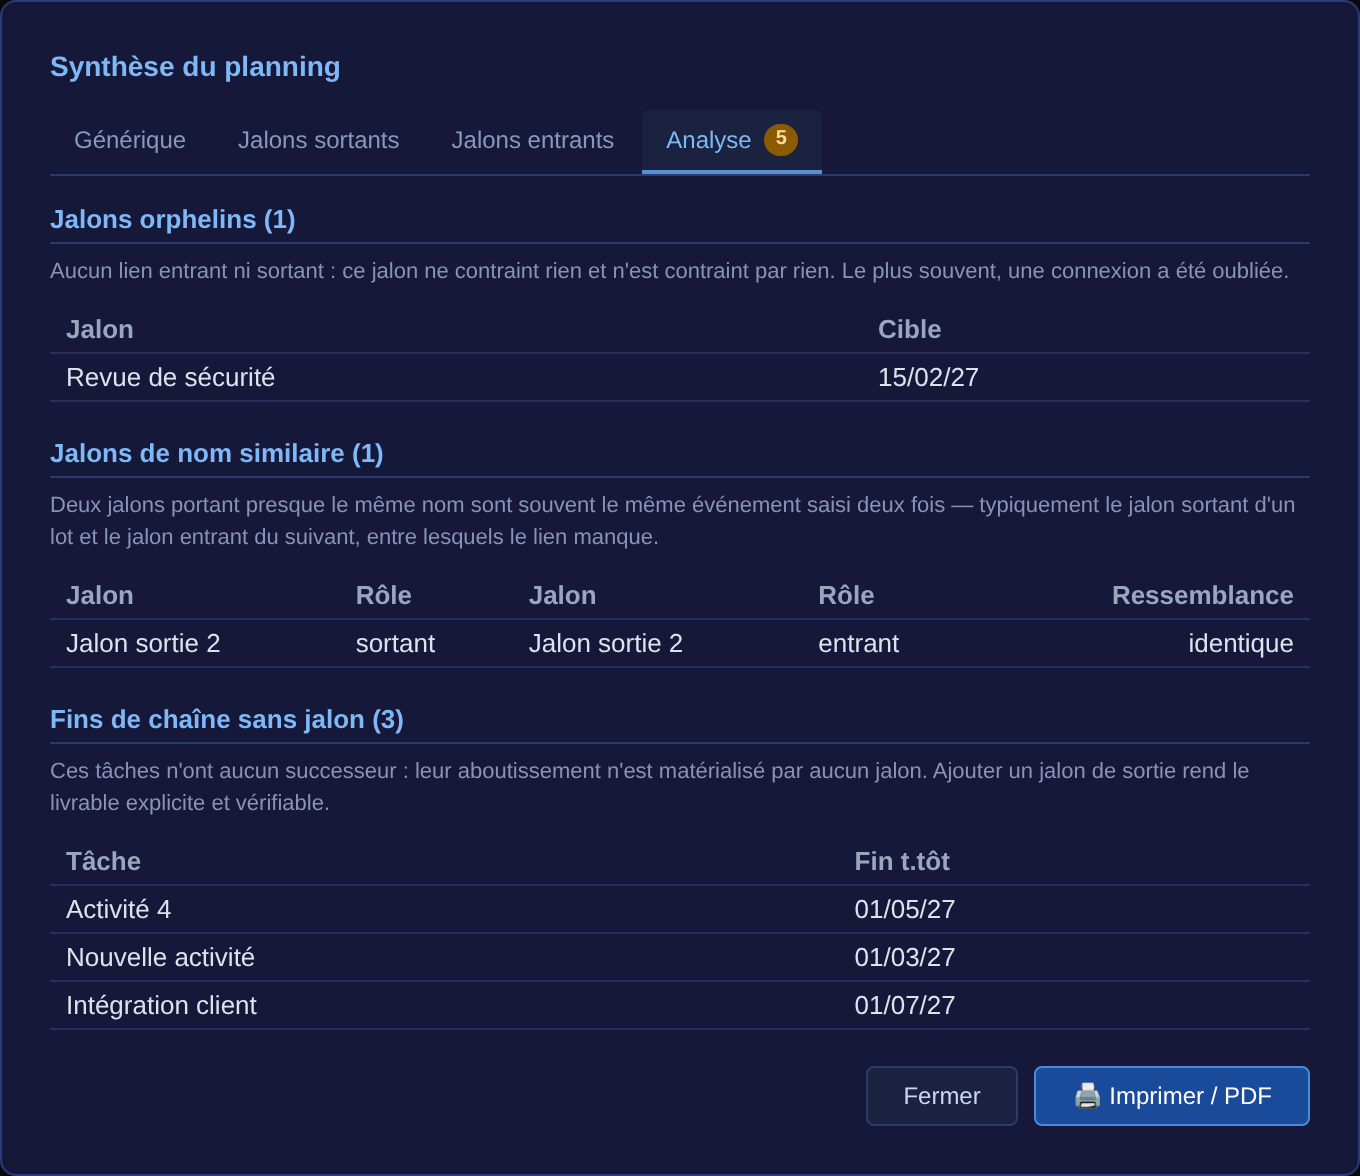
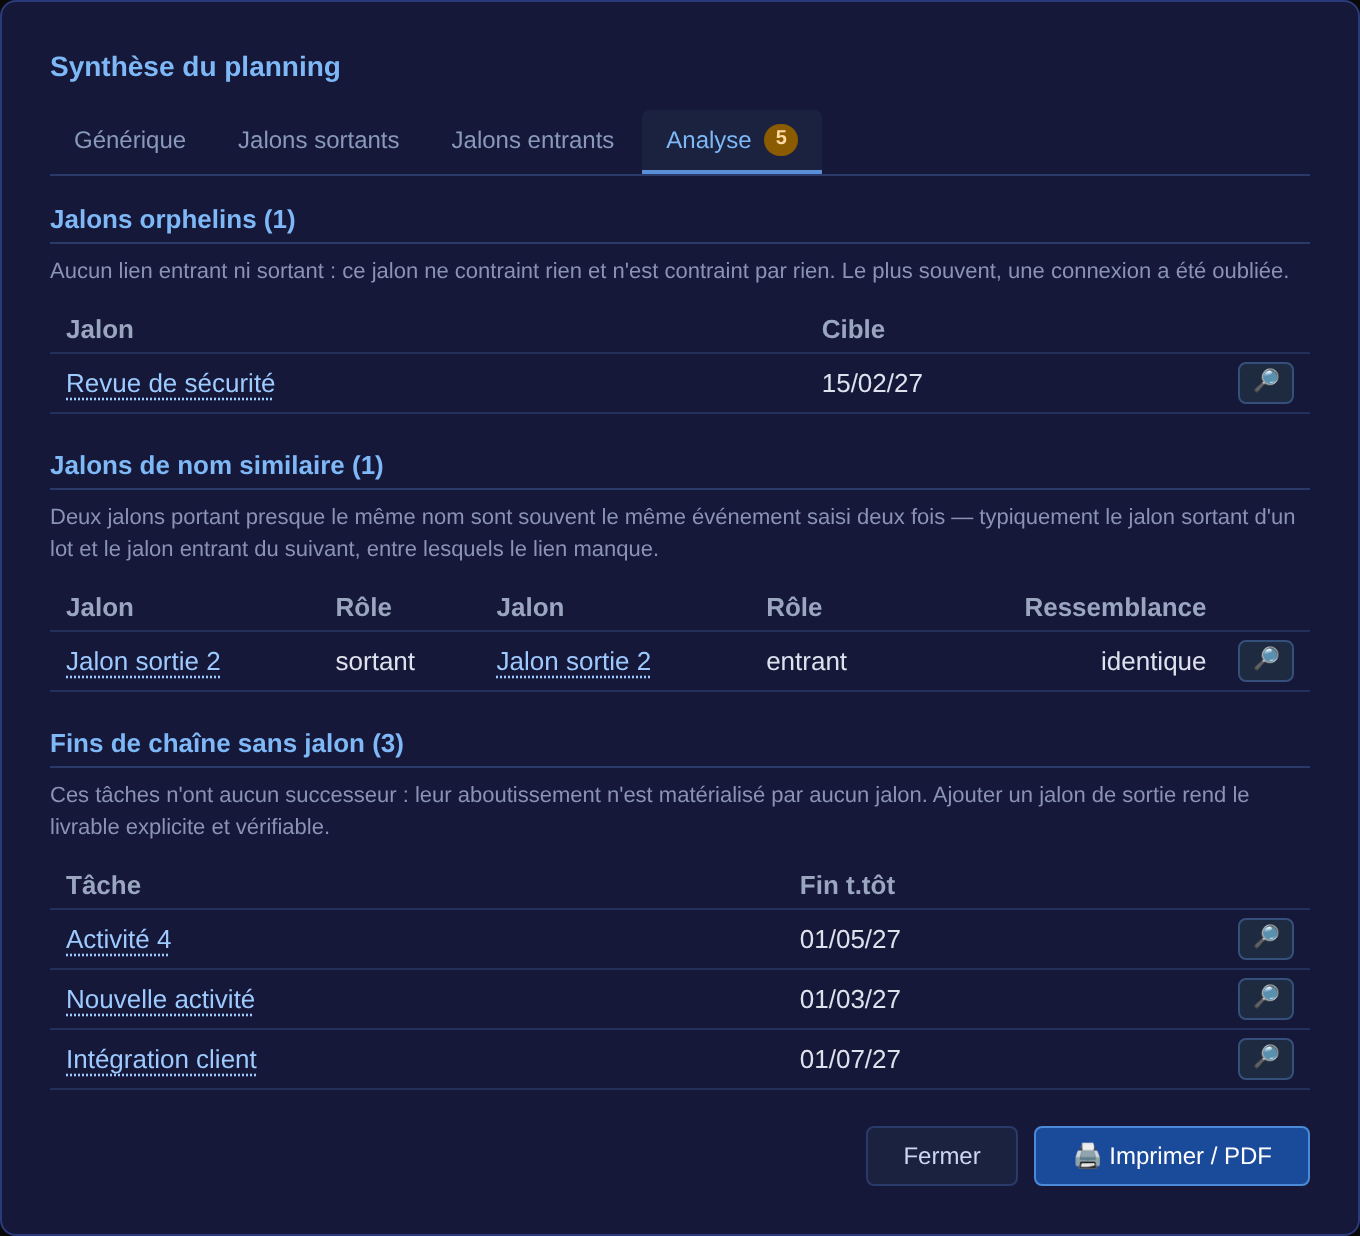
feat: les nœuds signales par l'analyse menent au planning (clic sur le nom, ou mise en evidence)
Une synthese qui signale une anomalie sans permettre d'aller la voir oblige a retrouver le
nœud a l'œil dans le planning — exactement le travail qu'elle est censee epargner. Chaque
ligne de l'onglet Analyse offre donc DEUX gestes, parce que les deux questions ne sont pas
les memes :

- cliquer le NOM (rendu comme un lien) ferme la fenetre, selectionne le nœud et centre la
  vue dessus, sans toucher au zoom — meme comportement que les predecesseurs/successeurs du
  panneau lateral, via le meme pertFocusNode. C'est le geste pour aller voir UN nœud ;
- le bouton 🔎 en bout de ligne ferme la fenetre en posant le FILTRE DE RECHERCHE sur le
  nom commun aux nœuds de la ligne, qui sont alors mis en evidence ENSEMBLE. C'est le geste
  quand l'anomalie en met PLUSIEURS en jeu : pour deux jalons de nom similaire, c'est en les
  voyant cote a cote qu'on tranche entre doublon et homonymie.

Dans les deux cas la fenetre se ferme : modale, elle recouvre le planning, et la laisser
ouverte rendrait le resultat invisible. Le filtre passe par la VRAIE zone de saisie du menu
(evenement `input` sur #filter-search) plutot que par window.pertFilter : tout ce qui en
depend — compteur de resultats, libelle du declencheur, regles de vidage quand on choisit
un autre filtre — reste valable sans dupliquer la moindre logique.

Le terme de filtre d'une ligne a deux nœuds est leur plus longue amorce commune, ramenee a
une limite de MOT : « Livraison protot » filtrerait large et mal. Repli sur le premier
[…]

diff --git a/src/synthesis.js b/src/synthesis.js
@@ -263,11 +263,14 @@ function pertBuildAnalyses(g, adj) {
     hint: "Aucun lien entrant ni sortant : ce jalon ne contraint rien et n'est contraint "
         + "par rien. Le plus souvent, une connexion a été oubliée.",
     columns: [{ text: "Jalon" }, { text: "Cible" }],
-    rows: milestones.filter(n => !nbIn(n) && !nbOut(n)).map(n => [
-      { text: labelOf(n) },
-      { text: (typeof pertMilestoneDueLabel === "function" && pertMilestoneHasDue(n))
-          ? pertMilestoneDueLabel(n) : "—" },
-    ]),
+    rows: milestones.filter(n => !nbIn(n) && !nbOut(n)).map(n => ({
+      filterText: labelOf(n),
+      cells: [
+        { text: labelOf(n), nodeId: n.id },
+        { text: (typeof pertMilestoneDueLabel === "function" && pertMilestoneHasDue(n))
+            ? pertMilestoneDueLabel(n) : "—" },
+      ],
+    })),
   });
 
   // 2) Jalons de nom similaire. Le cas qui INTERESSE vraiment est le couple
@@ -286,13 +289,19 @@ function pertBuildAnalyses(g, adj) {
       // Deja relies l'un a l'autre ? Alors le doublon est deliberement chaine, rien a dire.
       if ((succs[a.id] || []).indexOf(b.id) !== -1 || (succs[b.id] || []).indexOf(a.id) !== -1) continue;
       const role = (x) => (nbIn(x) ? (nbOut(x) ? "intermédiaire" : "sortant") : (nbOut(x) ? "entrant" : "orphelin"));
-      simRows.push([
-        { text: labelOf(a) },
-        { text: role(a) },
-        { text: labelOf(b) },
-        { text: role(b) },
-        { text: s >= 0.999 ? "identique" : Math.round(s * 100) + " %", cls: "num" },
-      ]);
+      simRows.push({
+        // Une ligne, DEUX nœuds : le terme de filtre est ce qu'ils ont en commun, pour
+        // qu'un seul geste les mette tous les deux en evidence — c'est en les voyant
+        // cote a cote qu'on tranche entre doublon et homonymie.
+        filterText: pertSynthCommonTerm(labelOf(a), labelOf(b)),
+        cells: [
+          { text: labelOf(a), nodeId: a.id },
+          { text: role(a) },
+          { text: labelOf(b), nodeId: b.id },
+          { text: role(b) },
+          { text: s >= 0.999 ? "identique" : Math.round(s * 100) + " %", cls: "num" },
+        ],
+      });
     }
   }
   push({
@@ -314,10 +323,13 @@ function pertBuildAnalyses(g, adj) {
     hint: "Aucun lien entrant ni sortant : la tâche est hors du réseau, elle ne participe "
         + "à aucun enchaînement et ne peut pas être sur le chemin critique.",
     columns: [{ text: "Tâche" }, { text: "Durée", cls: "num" }],
-    rows: activities.filter(n => !nbIn(n) && !nbOut(n)).map(n => [
-      { text: labelOf(n) },
-      { text: String(n.properties.duration || 0), cls: "num" },
-    ]),
+    rows: activities.filter(n => !nbIn(n) && !nbOut(n)).map(n => ({
+      filterText: labelOf(n),
+      cells: [
+        { text: labelOf(n), nodeId: n.id },
+        { text: String(n.properties.duration || 0), cls: "num" },
+      ],
+    })),
   });
 
   // 4) Fins de chaine sans jalon — une tache qui ne debouche sur rien produit quelque
@@ -330,11 +342,14 @@ function pertBuildAnalyses(g, adj) {
         + "aucun jalon. Ajouter un jalon de sortie rend le livrable explicite et "
         + "vérifiable.",
     columns: [{ text: "Tâche" }, { text: "Fin t.tôt" }],
-    rows: activities.filter(n => nbIn(n) && !nbOut(n)).map(n => [
-      { text: labelOf(n) },
-      { text: (typeof pertFormatDate === "function" && n.ef != null)
-          ? pertFormatDate(pertOffsetToDate(n.ef)) : "—" },
-    ]),
+    rows: activities.filter(n => nbIn(n) && !nbOut(n)).map(n => ({
+      filterText: labelOf(n),
+      cells: [
+        { text: labelOf(n), nodeId: n.id },
+        { text: (typeof pertFormatDate === "function" && n.ef != null)
+            ? pertFormatDate(pertOffsetToDate(n.ef)) : "—" },
+      ],
+    })),
   });
 
   // 5) Taches de duree nulle — une Activite de duree 0 est un JALON deguise : elle
@@ -345,10 +360,13 @@ function pertBuildAnalyses(g, adj) {
     hint: "Une tâche sans durée est en réalité un jalon : la convertir clarifie le "
         + "planning et évite de la compter comme une charge.",
     columns: [{ text: "Tâche" }, { text: "Groupe" }],
-    rows: activities.filter(n => !(parseFloat(n.properties.duration) > 0)).map(n => [
-      { text: labelOf(n) },
-      { text: (n.properties.group || "").trim() || "—" },
-    ]),
+    rows: activities.filter(n => !(parseFloat(n.properties.duration) > 0)).map(n => ({
+      filterText: labelOf(n),
+      cells: [
+        { text: labelOf(n), nodeId: n.id },
+        { text: (n.properties.group || "").trim() || "—" },
+      ],
+    })),
   });
 
   return out;
@@ -394,6 +412,10 @@ function synthTable(headers, rows) {
     cells.forEach(c => {
       const td = synthEl("td", c.cls || null);
       if (c.node) td.appendChild(c.node);
+      // Cellule DESIGNANT UN NŒUD : rendue cliquable, elle mene au nœud. Le lecteur
+      // d'une synthese veut aller voir ce qu'on lui signale, pas le retrouver a l'œil
+      // dans le planning. Meme geste que les voisins du panneau lateral.
+      else if (c.nodeId != null) td.appendChild(synthNodeLink(c.text, c.nodeId));
       else td.textContent = (c.text != null ? c.text : "");
       tr.appendChild(td);
     });
@@ -401,6 +423,81 @@ function synthTable(headers, rows) {
   });
   table.appendChild(tbody);
   return table;
+}
+
+// ─── Depuis la synthèse vers le planning ────────────────────────────────────────
+//
+// Deux gestes complementaires, parce que les deux questions ne sont pas les memes :
+//   - « montre-moi CE nœud »        → le lien sur le nom : on ferme la fenetre, le nœud
+//                                     est selectionne et la vue centree dessus ;
+//   - « montre-moi CES nœuds-la »   → le bouton 🔎 de la ligne : on ferme la fenetre en
+//                                     posant le filtre de recherche sur leur nom commun,
+//                                     ce qui les met en evidence ENSEMBLE dans le plan.
+// Le premier convient a une anomalie ponctuelle (un jalon orphelin), le second a une
+// anomalie qui met en jeu PLUSIEURS nœuds (deux jalons de nom similaire) : les voir
+// cote a cote est justement ce qui permet de trancher.
+//
+// Dans les deux cas la fenetre se ferme : elle recouvre le planning, l'y laisser
+// ouverte rendrait le resultat invisible.
+
+function pertSynthGoToNode(id) {
+  const g = window.pertGraph;
+  const node = g && g._nodes ? g._nodes.find(n => n.id === id) : null;
+  pertCloseSynthesisDialog();
+  if (!node) return;
+  if (typeof pertFocusNode === "function") pertFocusNode(node);
+}
+window.pertSynthGoToNode = pertSynthGoToNode;
+
+// Pose le filtre de RECHERCHE sur un texte, en passant par la vraie zone de saisie du
+// menu Filtre : tout ce qui en depend (compteur, libelle du declencheur, regles de
+// vidage) reste ainsi valable, sans dupliquer la moindre logique.
+function pertSynthFilterOn(text) {
+  pertCloseSynthesisDialog();
+  const input = document.getElementById("filter-search");
+  if (!input) return;
+  input.value = text || "";
+  input.dispatchEvent(new Event("input"));
+  if (typeof showToast === "function" && text) {
+    showToast("Filtre de recherche : « " + text + " »");
+  }
+}
+window.pertSynthFilterOn = pertSynthFilterOn;
+
+// Lien cliquable vers un nœud (rendu comme du texte souligne, pas comme un bouton :
+// dans un tableau, une rangee de boutons serait visuellement assourdissante).
+function synthNodeLink(text, nodeId) {
+  const b = synthEl("button", "synth-link", text != null ? text : "");
+  b.type = "button";
+  b.title = "Aller à ce nœud dans le planning";
+  b.addEventListener("click", () => pertSynthGoToNode(nodeId));
+  return b;
+}
+
+// Bouton d'action « mettre en évidence » d'une ligne d'analyse.
+function synthFilterButton(text) {
+  const b = synthEl("button", "synth-goto", "🔎");
+  b.type = "button";
+  b.title = "Mettre en évidence dans le planning (filtre « " + text + " »)";
+  b.addEventListener("click", () => pertSynthFilterOn(text));
+  return b;
+}
+
+// Plus longue amorce commune a deux libelles, ramenee a une limite de mot. Sert de
+// terme de filtre pour une ligne qui met en jeu DEUX nœuds : c'est ce qu'ils ont en
+// commun qu'on veut voir surligne, pas l'un des deux. Repli sur le premier libelle
+// quand l'amorce commune est trop courte pour etre discriminante.
+function pertSynthCommonTerm(a, b) {
+  a = String(a || ""); b = String(b || "");
+  let i = 0;
+  while (i < a.length && i < b.length && a[i].toLowerCase() === b[i].toLowerCase()) i++;
+  let common = a.slice(0, i).trim();
+  // Ne pas couper au milieu d'un mot : « Livraison protot » filtrerait large et mal.
+  if (i < a.length && i < b.length && !/\s$/.test(a.slice(0, i))) {
+    const cut = common.lastIndexOf(" ");
+    if (cut > 0) common = common.slice(0, cut);
+  }
+  return common.length >= 4 ? common : a.trim();
 }
 
 // Section titree ; ajoute un message « vide » si aucune ligne.
@@ -614,7 +711,13 @@ function pertRenderSynthesis() {
     m.analyses.forEach(a => {
       const box = synthEl("div");
       box.appendChild(synthEl("p", "synth-hint", a.hint));
-      box.appendChild(synthTable(a.columns, a.rows));
+      // Colonne d'action en queue de ligne : met en evidence dans le planning les
+      // nœuds de CETTE ligne (le nom, lui, mene directement au nœud — cf. synthNodeLink).
+      const cols = a.columns.concat([{ text: "", cls: "synth-goto-col" }]);
+      const rows = a.rows.map(r => ({
+        cells: r.cells.concat([{ node: synthFilterButton(r.filterText), cls: "synth-goto-col" }]),
+      }));
+      box.appendChild(synthTable(cols, rows));
       synthSection(an, a.title + " (" + a.rows.length + ")", box);
     });
   }

diff --git a/css/style.css b/css/style.css
@@ -781,6 +781,35 @@ body {
    papier où les onglets n'existent plus. */
 .synth-chapter { display: none; }
 
+/* Nom de nœud cliquable dans un tableau de synthèse : rendu comme du texte souligné et
+   non comme un bouton — une rangée de boutons dans un tableau serait assourdissante. */
+.synth-link {
+  background: none;
+  border: none;
+  padding: 0;
+  font: inherit;
+  color: #9ecbff;
+  text-decoration: underline dotted;
+  text-underline-offset: 3px;
+  cursor: pointer;
+  text-align: left;
+}
+.synth-link:hover { color: #d6e9ff; text-decoration-style: solid; }
+
+/* Bouton « mettre en évidence » en queue de ligne d'analyse. */
+.synth-goto {
+  background: #1e2a40;
+  border: 1px solid #34507a;
+  border-radius: 4px;
+  color: #cfe0ff;
+  font-size: 11px;
+  line-height: 1;
+  padding: 4px 6px;
+  cursor: pointer;
+}
+.synth-goto:hover { background: #2a3d5e; border-color: #5a8fd8; }
+.synth-table th.synth-goto-col, .synth-table td.synth-goto-col { width: 1%; text-align: right; }
+
 /* Explication d'un contrôle d'analyse : ce que le point d'attention signifie et
    pourquoi il vaut la peine d'être regardé. */
 .synth-hint {
@@ -878,6 +907,12 @@ body {
     border-bottom: 2px solid #333;
   }
   body.synthesis-printing .synth-hint { color: #444; }
+  /* Sur papier, un lien ne mène nulle part : le nom redevient du texte noir, et la
+     colonne d'action disparaît — elle ne ferait qu'ajouter une colonne vide. */
+  body.synthesis-printing .synth-link {
+    color: #000 !important; text-decoration: none; padding: 0;
+  }
+  body.synthesis-printing .synth-goto-col { display: none !important; }
   body.synthesis-printing .synth-section { break-inside: avoid; }
   body.synthesis-printing .synth-section h4 { color: #000; border-color: #999; }
   body.synthesis-printing .synth-kv .k,

diff --git a/docs/manuel-utilisateur.md b/docs/manuel-utilisateur.md
@@ -764,6 +764,20 @@ liste de choses à regarder, pas comme une liste de cases vertes à faire défil
 | **Fins de chaîne sans jalon** | Une tâche sans successeur : son aboutissement n'est matérialisé par aucun jalon. |
 | **Tâches de durée nulle** | Une tâche sans durée est en réalité un jalon. |
 
+**Chaque ligne mène au planning**, de deux façons complémentaires :
+
+- **Cliquer le nom** d'un jalon ou d'une tâche (souligné) **ferme la synthèse, sélectionne ce
+  nœud et centre la vue dessus** — comme les prédécesseurs/successeurs du panneau (§5). C'est le
+  geste pour aller voir *un* nœud.
+- **Le bouton 🔎 en bout de ligne** ferme la synthèse en posant le **filtre de recherche** (§6)
+  sur le nom commun aux nœuds de la ligne : ils sont alors mis en évidence **ensemble** dans le
+  planning. C'est le geste quand l'anomalie en met **plusieurs** en jeu — deux jalons de nom
+  similaire, par exemple : c'est en les voyant côte à côte qu'on tranche entre doublon et
+  homonymie.
+
+> Dans les deux cas la fenêtre se ferme : elle recouvre le planning, la garder ouverte rendrait le
+> résultat invisible. Ni les liens ni le bouton n'apparaissent sur le document imprimé.
+
 > La détection des noms similaires **ignore les séries numérotées** (« Revue de lot 1 » / « Revue de
 > lot 2 ») : elles ne diffèrent que d'un caractère, mais la numérotation est délibérée. Deux jalons
 > déjà reliés l'un à l'autre ne sont pas signalés non plus.
